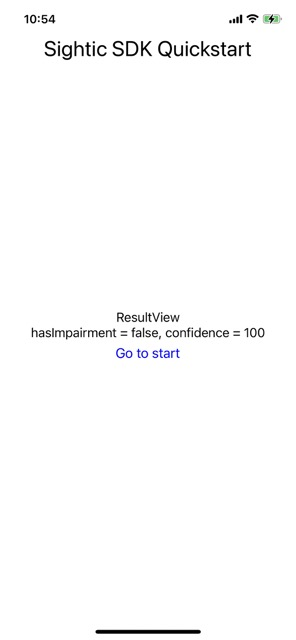
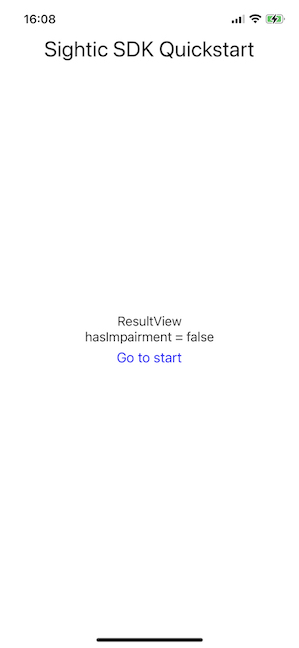
Update README

diff --git a/README.md b/README.md
@@ -42,11 +42,11 @@ The SDK requires an API key in order to provide the app with a result. Please ge
 1. The app shall call the `performInference` method to send the recorded data to the `Sightic Analytics` server for analysis.
 1. `performInference` is an async function and will return a `SighticInferenceResult` object when done.
 1. `SighticInferenceResult` is a result type that contains either a `SighticInference` or a `SighticError`.
-1. The `SighticInference` object contains a `bool` property named `hasImpairment` and an `Int` property named `confidence` betwen 0 to 100 that can be used by the app to present the result.
+1. The `SighticInference` object contains a `bool` property named `hasImpairment` that can be used by the app to present the result.
 
 ## Translations using custom strings
 
-A number of user-visible strings can be customized by the host application, by implementing the protocol `SighticStrings` and provide an instance to the `SighticInferenceView`. This could for example be used to add support for more languages. The host application is then expected to return a non-nil string for each property defined by the protocol. The protocol is documented with a brief comment of what the string is supposed to say.
+A number of user-visible strings can be customized by the host application, by implementing the protocol `SighticStrings` and provide it to the `SighticInferenceView`. This could for example be used to add support for more languages. The host application is then expected to return a non-nil string for each property defined by the protocol. The protocol is documented with a brief comment of what the string is supposed to say.
 
 If a `nil` value is returned, the SDK will fallback to a default value based on the current language setting. For this to work properly it is important that the returned value is `nil`, and not any other default value.
 
@@ -70,7 +70,7 @@ struct MyStrings: SighticStrings {
 }
 ```
 
-### Providing strings to SDK
+### Providing strings to the SDK
 
 ```swift
 @main
@@ -180,7 +180,7 @@ The analysis by the Sightic server may take a couple of seconds. The QuickStart 
 
 ### ResultViewController
 
-The `performInference` is an async function and will return a `SighticInferenceResult` object when done. `SighticInferenceResult` is a result type that contains either a `SighticInference` or a `SighticError`. The `SighticInference` object contains a `bool` property named `hasImpairment` and an `Int` property named `confidence` betwen 0 to 100 that can be used by the app to present the result. The QuickStart app shows the raw value of `hasImpairment` and `confidence`.
+The `performInference` is an async function and will return a `SighticInferenceResult` object when done. `SighticInferenceResult` is a result type that contains either a `SighticInference` or a `SighticError`. The `SighticInference` object contains a `bool` property named `hasImpairment` that can be used by the app to present the result. The QuickStart app shows the raw value of `hasImpairment`.
 
 ![Result view](images/6-quickstart-app-result-view.jpeg)
 
